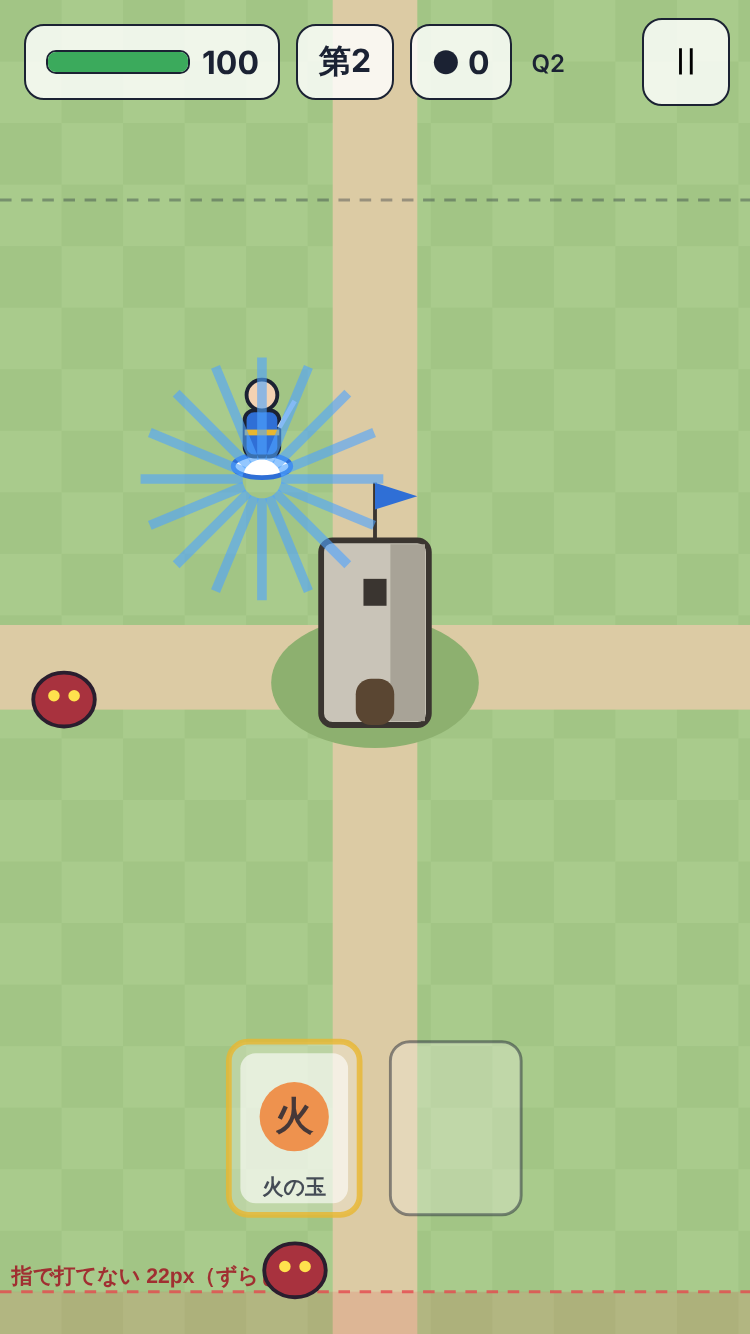
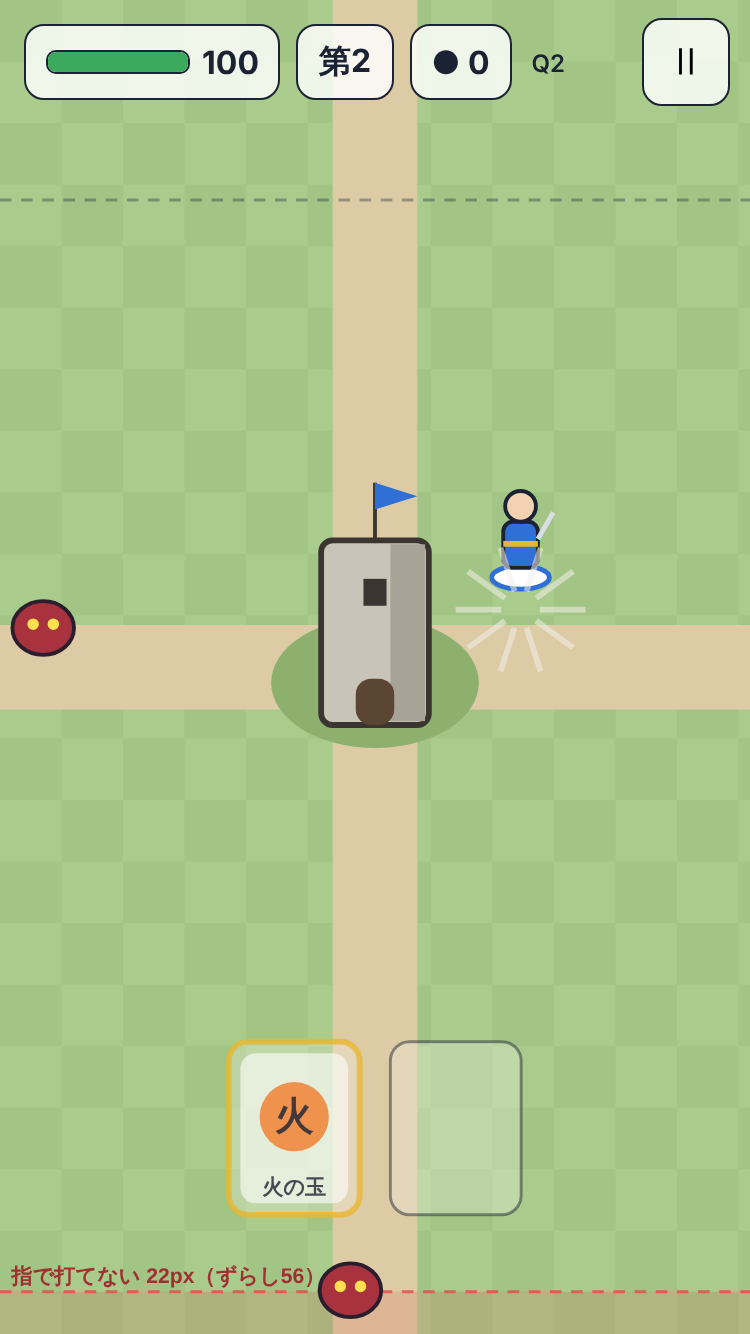
packdefense：プロト q123 の既定を実機テスト用の設定に、既定に戻すつまみ
Claude-Session: https://claude.ai/code/session_0121cXusYUC7f676bStnWiKh

diff --git a/ゲーム/packdefense/04_プロト/q123_戦場/src/main.ts b/ゲーム/packdefense/04_プロト/q123_戦場/src/main.ts
@@ -140,6 +140,7 @@ function knobsBody(): string {
       autoLevels(p).map(a => `${a.name}：${a.ratio ? `威力×${a.ratio}・${a.interval}秒ごと` : '切'}`).join('／') + '。強＝指と同じ（比べるためだけ）。すぐ効く')
     + '<div class="lab" style="margin-top:14px;color:#2F6FD6">そのほか</div>'
     + row('音', onoff('sound', k.sound)) + row('シード', seg('sameSeed', [['0', '毎回かえる'], ['1', '毎回同じ']], k.sameSeed ? '1' : '0'))
+    + row('既定に戻す', `<button class="sec" data-act="resetKnobs">つまみを既定に戻す</button>`, '既定＝やや強い・B・×2・山に合わせる・S1b・群れ第2・最初15・値段×0.7（遊び方・音はそのまま）')
     + row('名声と強化（Q3）', `<button class="sec" data-act="resetMeta">名声・記録・強化を最初に戻す</button>`, `いま：名声${fmt(g.meta.fame)} 記録 第${g.meta.record} 強化 指${g.meta.up.tapDmg}・英雄${g.meta.up.heroDmg}・塔${g.meta.up.towerHp}`)
     + (missing.length ? `<div class="sub" style="color:#c00">CSV に無い名前：${missing.join('、')}</div>` : `<div class="sub">値は 03_仕様/パラメータ表.csv から読んだ（${VERSION}）</div>`);
 }
@@ -269,6 +270,7 @@ function doAct(act: string, v = ''): void {
       openKnobs(back); sb.scrollTop = st; break;
     }
     case 'preset': { Object.assign(g.k, PRESSURE[Number(v)].v); save(); const st = sb.scrollTop; openKnobs(sf.querySelector('[data-act]:not([data-act=start])')?.getAttribute('data-act') ?? 'title'); sb.scrollTop = st; break; }
+    case 'resetKnobs': { const keep = { mode: g.k.mode, sound: g.k.sound }; Object.assign(g.k, defaultKnobs(p), keep); save(); const st = sb.scrollTop; openKnobs(sf.querySelector('[data-act]:not([data-act=start])')?.getAttribute('data-act') ?? 'title'); sb.scrollTop = st; break; }
     case 'resetMeta': g.meta = newMeta(); g.k.auto = 0; g.runLogs = []; save(); openKnobs(sf.querySelector('[data-act]:not([data-act=start])')?.getAttribute('data-act') ?? 'title'); break;
     case 'resume': closePanel(); setPaused(false); break;
     case 'restart': closePanel(); g.newRun(); setPaused(false); break;

diff --git a/ゲーム/packdefense/04_プロト/q123_戦場/test/core.test.ts b/ゲーム/packdefense/04_プロト/q123_戦場/test/core.test.ts
@@ -4,7 +4,7 @@ import assert from 'node:assert/strict';
 import { readFileSync } from 'node:fs';
 import { parseCsv, buildParams } from '../src/core/params.ts';
 import { Game } from '../src/core/game.ts';
-import { defaultKnobs, PRESSURE, applyOverrides } from '../src/core/proto.ts';
+import { csvKnobs as defaultKnobs, defaultKnobs as ownerKnobs, PRESSURE, applyOverrides } from '../src/core/proto.ts';
 import type { FieldPack, Monster } from '../src/core/game.ts';
 import { exportText } from '../src/core/log.ts';
 
@@ -145,4 +145,10 @@ test('上書きは CSV を変えず、記録の行に出る', () => {
   const t = g.knobText();
   for (const w of ['wave.budget.base=28', 'spawn.packet.base=3', 'monster.slime.hp=90', 'spawn.pullForward=切', 'coin.start=15', 'pack.price×0.7', 'pack.hitsToOpen×2', 'monster.swarm.fromWave=2']) assert.ok(t.includes(w), w + ' / ' + t);
   assert.ok(new Game(p, defaultKnobs(p), 844, 'x').knobText().includes('上書きなし'));
+});
+
+test('既定（オーナーが初めて開いたとき）', () => {
+  const k = ownerKnobs(p);
+  assert.deepEqual([k.budgetBase, k.packetBase, k.slimeHpMul, k.pullForward, k.packRule, k.hitsMul, k.dropSync, k.spellMode, k.swarmFrom, k.startCoin, k.priceMul],
+    [28, 3, 1.5, false, 'B', 2, true, 'S1b', 2, 15, 0.7]);
 });

diff --git a/ゲーム/packdefense/04_プロト/q123_戦場/src/core/proto.ts b/ゲーム/packdefense/04_プロト/q123_戦場/src/core/proto.ts
@@ -86,7 +86,13 @@ export function overrideList(base: Params, k: Knobs): string[] {
   return o;
 }
 
+/** オーナーが初めて開いたときの既定（q123 2回目、プロデューサーの指定）。CSV のままの組は csvKnobs */
 export function defaultKnobs(p: Params): Knobs {
+  return { ...csvKnobs(p), ...PRESSURE[1].v, packRule: 'B', hitsMul: 2, dropSync: true, spellMode: 'S1b', swarmFrom: 2, startCoin: 15, priceMul: 0.7 };
+}
+
+/** すべて CSV のまま（1回目の既定） */
+export function csvKnobs(p: Params): Knobs {
   return {
     mode: 'q1', ringOffset: p.ringOffsetDefault, towerY: p.towerYRatio, showBand: true, introDirs: true,
     spellMode: p.spellModeDefault === 'S1' ? 'S1a' : 'S2', dropBias: p.dropDirBias, hitsMul: 1, forceSpell: true, auto: 0, sound: true, sameSeed: false, pullForward: p.pullForward,
